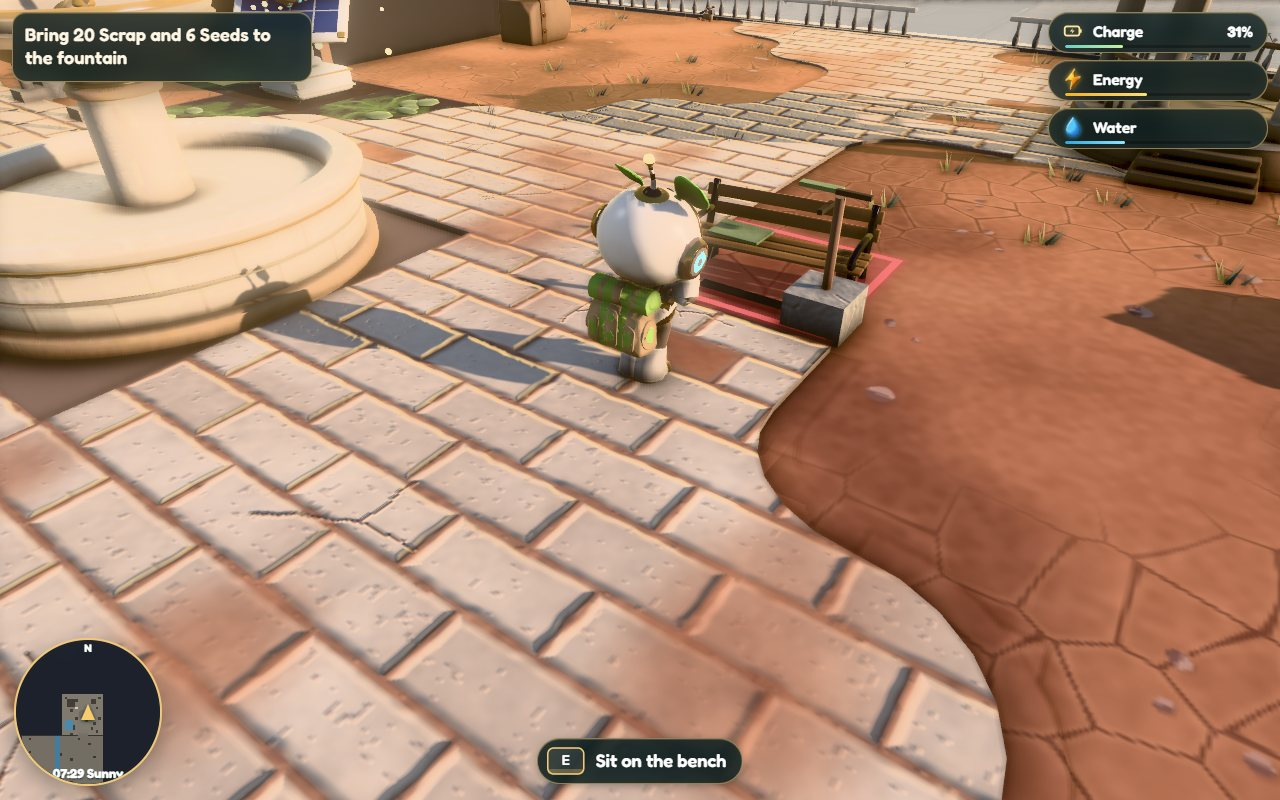
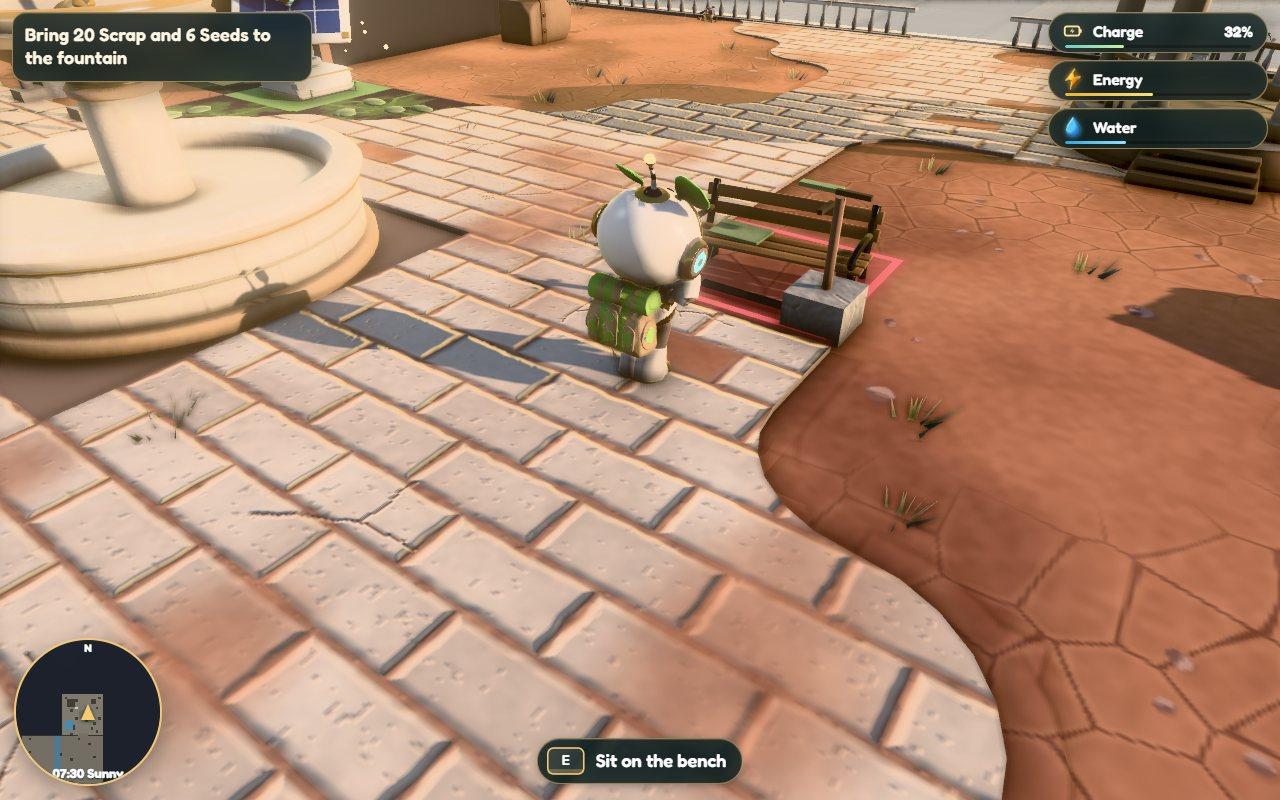
E23.2.3 follow-up: bloombot sits on the bench seat, and meditates on the charger pad
- On a bench, bloombot's round body hung below and in front of the slats (it read as standing at the bench):
  it now sits back toward the backrest and a little higher (REST.seat.out, REST.seat.raise), feet over the front
  edge. A friend keeps its own place (REST.seat.friendOut).
- Meditating: seated cross-legged centred on the glowing pad, a little above its top (REST.padTop), facing out the
  way bloombot came. Its own place stays at the pad's edge, so it is docked and stands up there.
- Review shots 10–15 retaken (tests/e2e/rest-e23.mjs, GPU, High tier: 21/21 checks).

diff --git a/src/app/Resting.ts b/src/app/Resting.ts
@@ -81,18 +81,20 @@ export class Resting {
     const sx = Math.cos(facing);
     const sz = -Math.sin(facing);
     const friend = h.sim.rest.friends(b.x, b.z).find((id) => h.sim.keepers.visible(id));
-    const { out, along, friend: other } = REST.seat;
+    const { out, raise, friendOut, along, friend: other } = REST.seat;
     const side = friend ? along : 0;
     h.bot.seat = { x: cx + fx * out - sx * side, y: by, z: cz + fz * out - sz * side, facing };
-    h.bot.visuals.setPose('sit', REST.benchSeat);
+    h.bot.visuals.setPose('sit', REST.benchSeat + raise);
     // a Keeper who is a friend sits beside (only one already out and about: never in fog)
-    if (friend && h.keepers) h.keepers.beside = { id: friend, x: cx + fx * out + sx * other, y: by, z: cz + fz * out + sz * other, facing, seat: REST.benchSeat };
+    if (friend && h.keepers) h.keepers.beside = { id: friend, x: cx + fx * friendOut + sx * other, y: by, z: cz + fz * friendOut + sz * other, facing, seat: REST.benchSeat };
     this.calm();
   }
 
   /**
-   * E23.3.3: sits cross-legged at the edge of the charger in front, facing it, and meditates while the pad charges
-   * (sim.chargers: it charges while bloombot is docked there and the grid has power).
+   * E23.3.3: sits cross-legged on the charger in front, centred on the glowing pad and facing out the way bloombot
+   * came, and meditates while the pad charges (sim.chargers: it charges while bloombot is docked there and the grid
+   * has power). Bloombot's own place stays at the pad's edge (a machine's tile can't be walked onto): docked, and
+   * where it stands up again.
    */
   meditate(m: MachineData) {
     const h = this.h;
@@ -108,9 +110,10 @@ export class Resting {
     p.x = cx + (p.x - cx) * k;
     p.z = cz + (p.z - cz) * k;
     h.sim.bot = { roofId: p.roofId, x: p.x, z: p.z };
-    const facing = Math.atan2(cx - p.x, cz - p.z);
+    // seated on the pad's top, facing out toward the edge it came from
+    const facing = Math.atan2(p.x - cx, p.z - cz);
     p.facing = facing;
-    h.bot.seat = { x: p.x, y, z: p.z, facing };
+    h.bot.seat = { x: cx, y: y + REST.padTop, z: cz, facing };
     h.bot.visuals.setPose('meditate');
     this.calm();
   }

diff --git a/src/data/rest.ts b/src/data/rest.ts
@@ -12,12 +12,16 @@ export const REST = {
   /** the calm view turns this many degrees a second round bloombot */
   orbitDegPerSecond: 2.5,
   /**
-   * Where bloombot and a friend sit on a bench (world units from its middle): `out` forward of the seat's middle,
-   * bloombot `along` to one end when a friend joins, the friend `friend` to the other end.
+   * Where bloombot and a friend sit on a bench (world units from its middle): bloombot `out` forward of the seat's
+   * middle (back, toward the backrest: its round body rests over the slats, feet at the front edge) and `raise`
+   * above the plain seated height (the body's underside sits below its hips), the friend `friendOut`; bloombot
+   * `along` to one end when a friend joins, the friend `friend` to the other end.
    */
-  seat: { out: 0.04, along: 0.2, friend: 0.24 },
+  seat: { out: -0.1, raise: 0.04, friendOut: 0.04, along: 0.2, friend: 0.24 },
   /** meditating: bloombot sits this far out from the charger pad's edge (inside the pad's reach, POWER.charger) */
   padGap: 0.35,
+  /** meditating: bloombot sits this high on the charger pad (its glowing top, MachineVisuals.charger, plus a hair) */
+  padTop: 0.11,
   /** the music swells to this share above its level while sitting */
   musicSwell: 0.6,
   /**
